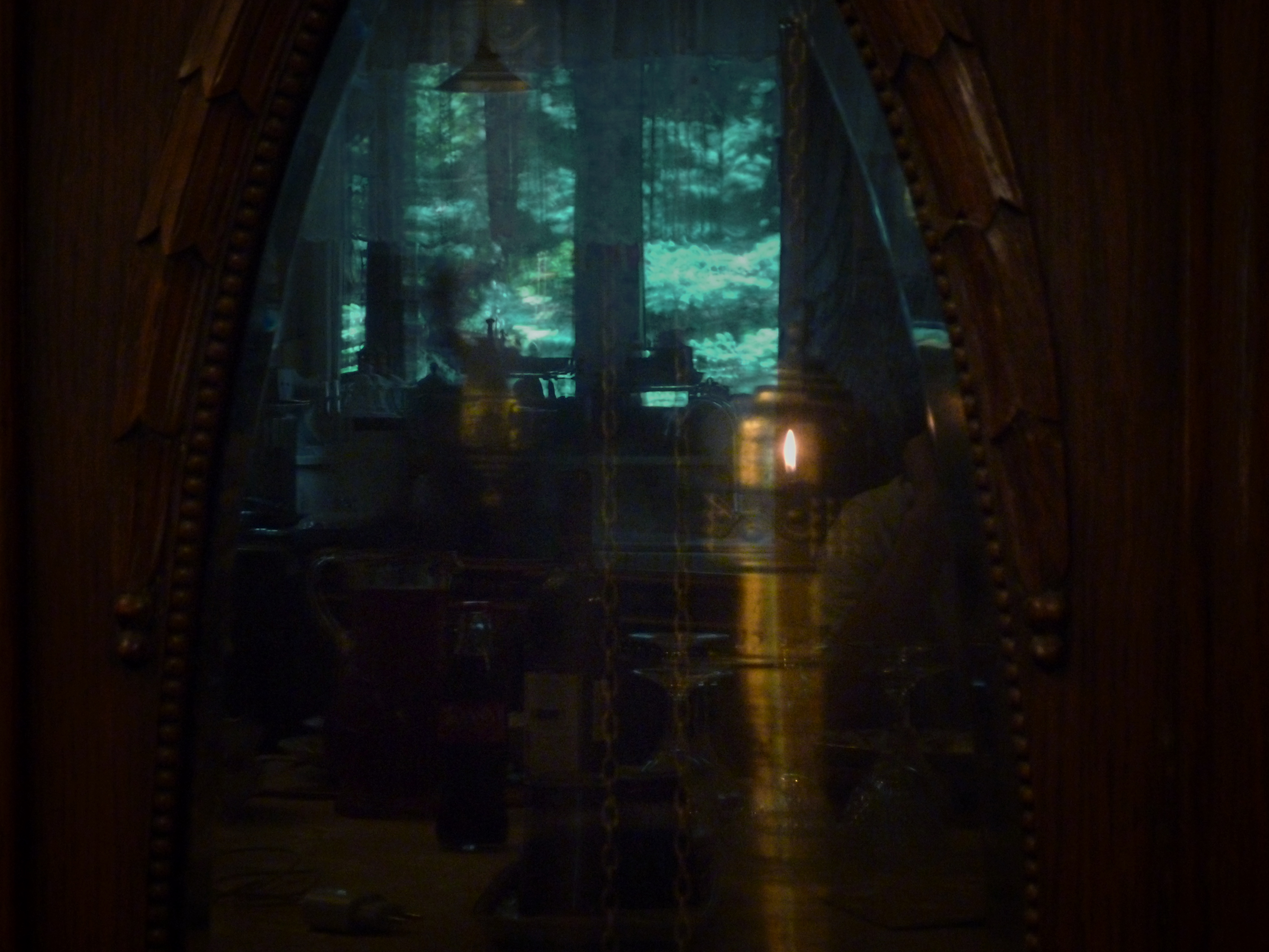
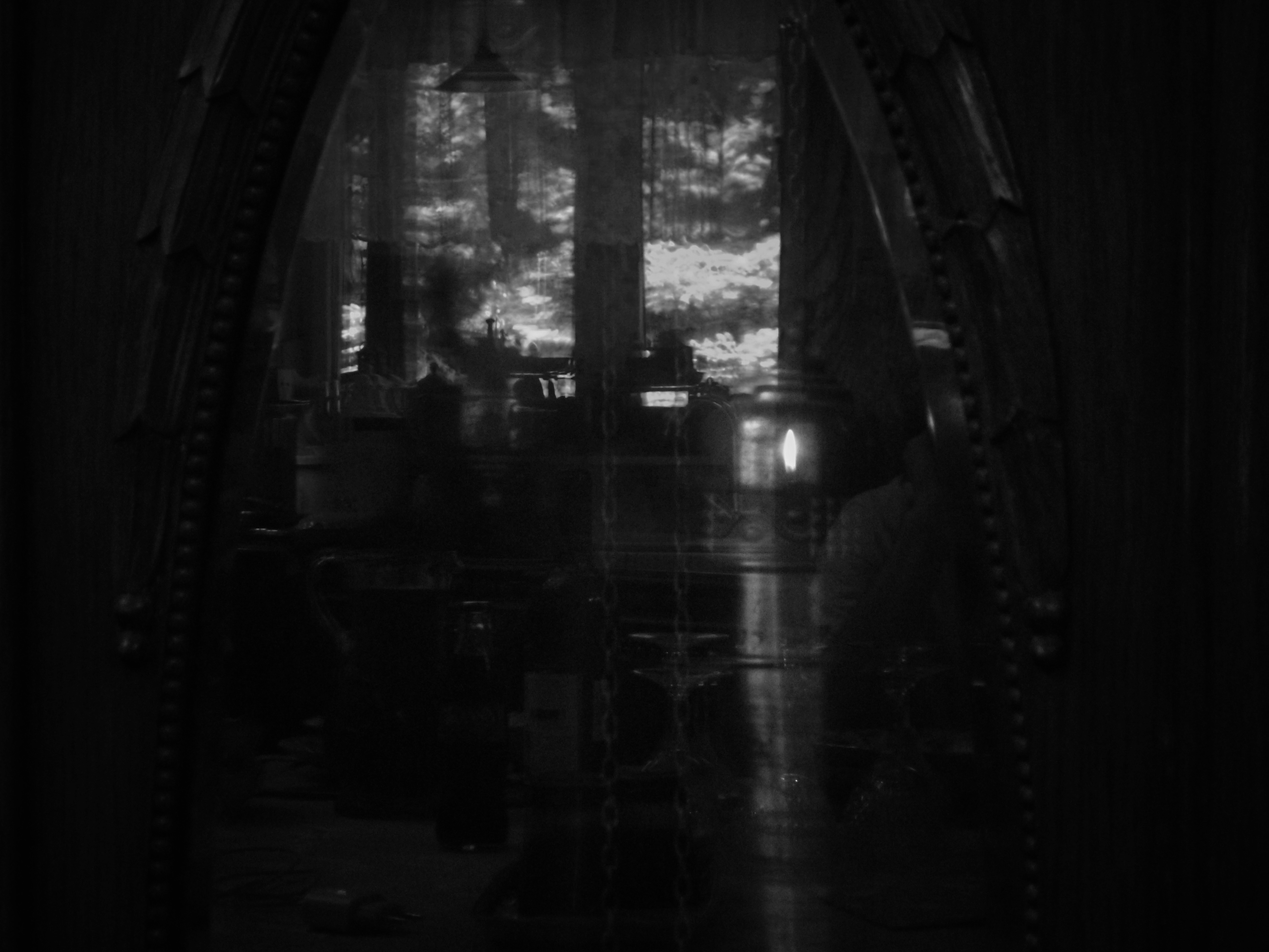
mobile alignment, winter night photo

diff --git a/assets/css/main.css b/assets/css/main.css
@@ -1094,3 +1094,11 @@ body.home .nav__home {
     top: 2px !important;
   }
 }
+
+@media (max-width: 768px) {
+  .home-hero__bottom {
+    padding-left: 0 !important;
+    padding-right: 0 !important;
+    margin-left: -1rem !important;
+  }
+}

diff --git a/_writing/winter-night.md b/_writing/winter-night.md
@@ -2,7 +2,7 @@
 title: In the Winter Night
 subtitle: somewhere in a rain-soaked forest
 date: 2026-02-08
-thumb: /assets/images/IMG_8256.JPG
+thumb: /assets/images/IMG_0989.JPG
 excerpt: It was a moonless January night. Rain fell in a fine, unbroken descent — not to cleanse, but to seep and remain, darkening trunks to ink and softening the ground to treachery.
 ---
 
